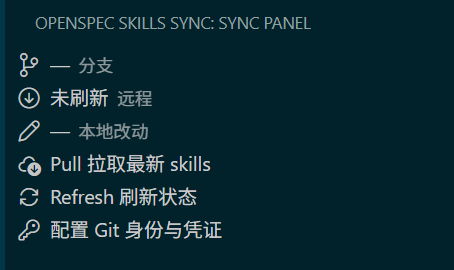
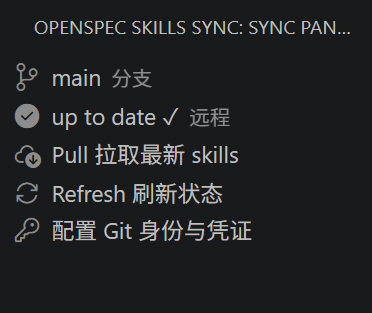
docs：更新双语 README

diff --git a/README.md b/README.md
@@ -1,20 +1,28 @@
 # OpenSpec Skills Sync
 
+<p align="right"><a href="#中文">中文</a> | <a href="#english">English</a></p>
+
 ![Dashboard](./dashboard.png)
 
-> 一个面向非开发者的 VS Code 插件，把"拉取最新 OpenSpec skills 文档"这件事简化成点一个按钮——无需任何 Git 命令知识。
+---
 
-## 一、概述
+<a id="中文"></a>
 
-在 OpenSpec 研发工作流中，团队默认使用 Lingma（通义灵码）配置 OpenSpec，规范 skills 文档存放于 `.lingma/skills/`。产品、测试、技术负责人等非开发人员经常需要查阅最新的 skills 文档，但手动 `git pull`、配置凭证、处理冲突的门槛过高。
+## 中文
 
-**OpenSpec Skills Sync** 在 VS Code 侧边栏提供一个图形化面板，让这些角色一键拉取最新文档。其核心设计原则是：
+> 一个面向非开发者的 VS Code 插件，把"拉取最新 OpenSpec skills 文档"简化成点一个按钮——无需任何 Git 命令知识。
 
-- **只读取，不写回**：MVP 阶段只做拉取，不让非开发者触碰提交/推送等复杂写操作。
-- **冲突即备份，不让用户纠结**：拉取前自动备份本地改动，再强制对齐远程，用户永远拿到干净的最新版，本地改动也不会丢失。
-- **省去命令行**：一键配置 Git 身份与凭证存储。
+### 一、概述
 
-## 二、适用人员
+团队默认使用 Lingma（通义灵码）配置 OpenSpec，规范 skills 文档存放于 `.lingma/skills/`。产品、测试、技术负责人等非开发人员需要查阅最新的 skills 文档，但手动 `git pull`、配置凭证、处理冲突门槛过高。本插件在 VS Code 侧边栏提供图形化面板，让这些角色一键拉取最新文档。
+
+设计原则：
+
+- **只读取，不写回**：MVP 只做拉取，不让非开发者触碰复杂写操作。
+- **冲突即备份**：拉取前自动备份本地改动，再强制对齐远程，用户永远拿到干净的最新版，本地改动也不丢。
+- **省去命令行**：一键配置 Git 身份与凭证。
+
+### 二、适用人员
 
 | 角色 | 典型用途 |
 |------|----------|
@@ -23,99 +31,136 @@
 | 技术负责人 | 同步规范、对照实现进行审查 |
 | 任何不熟悉 Git 的协作者 | 安全、零门槛地获取最新 skills |
 
-> 开发人员同样可用，但其价值主要面向"会用 VS Code 但不熟悉 Git"的协作者。
+### 三、典型团队流程
 
-## 三、文件结构
+本插件配合标准的「main + feature 分支 + PR」协作模型：
 
-```
-openspec-skills-sync/
-├── src/
-│   ├── extension.ts        # 主入口：注册命令、组装服务、UI 提示
-│   ├── syncProvider.ts     # 侧边栏 TreeView：状态面板 + 操作按钮
-│   ├── gitHandler.ts       # Git 操作封装（分支/状态/拉取/配置等，可注入执行器）
-│   ├── gitRunner.ts        # 真实 Git 执行器（基于 execFile）
-│   ├── syncService.ts      # 拉取流程编排（检查远程→fetch→备份→reset）
-│   ├── backup.ts           # 备份纯逻辑（日期/序号命名、文件复制，fs 可注入）
-│   ├── backupFn.ts         # 备份组装（拼出 syncService 所需的备份函数）
-│   ├── fileOps.ts          # 真实文件操作器（基于 fs/promises）
-│   ├── workspace.ts        # 仓库根解析、已有备份枚举
-│   ├── i18n.ts             # 中英文文案与语言切换
-│   └── *.test.ts           # 各模块的单元测试
-├── media/
-│   └── icon.svg            # 活动栏图标
-├── dashboard.png           # 面板截图（README 封面）
-├── package.json
-└── README.md
-```
+- **main 是唯一的同步来源**。所有人按需通过插件 **Pull**，把 `origin/main` 的最新 skills 同步到本地。Pull 只能在 main 分支进行（插件会拦截非 main 分支的拉取，避免误操作毁掉分支工作）。
+- **修改 skills 走 feature 分支 + PR**。需要改 skills 时，创建一个 feature 分支（如 `feat/update-review-spec`），在分支上修改，推送后在 GitHub/GitLab 上发起 Pull Request。
+- **合并后回到 main 拉取**。PR 合并进 main 后，协作者切回 main、点 Pull，即可获得最新 skills。
 
-## 四、已实现功能
 
-- **一键 Pull**：拉取 `.lingma/skills/` 的最新内容。本地若有未提交改动，先自动备份再强制对齐远程。
-- **自动备份**：备份目录命名为 `yyyy-MM-dd-id`（同一天多次备份序号递增，互不覆盖），仅备份有改动的文件。
-- **状态面板**：显示当前分支、与远程的同步状态（最新/落后/领先）、本地改动数量，状态图标随情况变色。
-- **一键 Refresh**：刷新状态并弹出带摘要的反馈（如"已是最新"或"远程有 N 个更新"）。
-- **配置 Git 身份与凭证**：一键设置 `user.name`、`user.email`，并启用凭证存储；已配置时显示当前身份、不重复打扰。
-- **未保存拦截**：Pull 前检测编辑器中未保存的文件，提示先保存（或一键保存并继续），避免覆盖造成混乱。
-- **网络失败保护**：拉取的网络/认证失败发生在备份之前，失败时不会留下无用的备份目录。
-- **启动自动刷新**：插件激活时自动刷新一次状态。
+### 四、已实现功能
+
+- **一键 Pull**：从 `origin/main` 同步最新 skills（`fetch` + `reset --hard origin/main`）。拉取后工作区干净、内容处于已提交状态。
+- **自动备份**：本地有改动时，拉取前仅备份有改动的文件，命名为 `yyyy-MM-dd-id`（同一天多次备份序号递增，互不覆盖），存于 `.lingma/.backup/`。
+- **同步状态判断**：通过对比工作区与 `origin/main` 的差异（`git diff`）判断"已是最新"或"有更新可拉取"，状态图标随情况变化。
+- **分支保护**：非 main 分支点 Pull 时拦截并提示，避免 `reset --hard` 毁掉 feature 分支工作。
+- **网络感知**：拉取/刷新时若无法连接远程，明确标注"无法连接远程，状态可能过时"，不静默失败。
+- **未保存拦截**：Pull 前检测编辑器未保存文件，提示先保存或一键保存并继续。
+- **进度与防重复点击**：Pull/Refresh 显示进度提示，操作进行中忽略重复点击。
+- **自动刷新**：插件启动时、面板每次变为可见时、以及每次 Pull 完成后，自动刷新状态。
+- **一键配置 Git 身份与凭证**：一键设置 `user.name`、`user.email` 并启用凭证存储；已配置时显示当前身份、不重复打扰。
 - **中英文切换**：通过设置项 `opensync.language`（`zh-CN` / `en`）切换界面语言。
 
-## 五、核心用法
+### 五、核心用法
 
-### 首次配置
+**首次配置**：点击活动栏插件图标打开面板 → 点「配置 Git 身份与凭证」→ 依次输入用户名、邮箱 → 首次拉取输入一次凭证后自动保存。
 
-1. 安装插件后，点击活动栏中的 OpenSpec Skills Sync 图标，打开侧边面板。
-2. 点击 **配置 Git 身份与凭证**，依次输入用户名、邮箱（回车确认逐项填写）。
-3. 首次拉取时输入一次凭证，之后自动保存。
+**日常拉取**（确保在 main 分支）：打开面板 → 点 **Pull** → 本地若有改动会先自动备份并提示位置 → 拉取完成后状态自动刷新。
 
-### 日常拉取
+**查看状态**：点 **Refresh**，或直接切回插件面板即自动刷新。绿色对勾＝已是最新；下载图标＝有更新可拉取；⚠️＝无法连接远程。
 
-1. 打开侧边面板，点击 **Pull**。
-2. 若本地动过 skills 文件 → 插件自动备份后强制拉取，并提示备份位置（`.lingma/.backup/<yyyy-MM-dd-id>/`）。
-3. 若本地干净 → 直接拉取最新内容。
-4. 在编辑器中查阅最新的 `.lingma/skills/` 文档。全程无需任何 Git 命令。
+**修改 skills**：切到 feature 分支修改 → 推送 → 在平台发起 PR → 合并后切回 main 点 Pull。
 
-### 查看状态
+**切换语言**：`Ctrl+,` 打开设置，搜 `opensync`，将 **Opensync: Language** 改为 `en` 或 `zh-CN`，回面板点一次 Refresh 即可。
 
-点击 **Refresh** 即可刷新分支、远程同步状态与本地改动情况。面板上：
+### 六、未来开发功能（待定）
 
-- 绿色对勾 = 已是最新
-- 下载箭头 = 远程有更新，可拉取
-- 红色错误 = 未检测到远程
+- 分支切换 / 新建分支 / 推送 feature 分支按钮（轻量开发者支持）
+- Push 后一键跳转 PR 页面
+- 同步路径配置化（当前固定 `.lingma/skills`）
+- 改设置即时生效、备份自动清理
+- 凭证方案可选（明文 / 系统凭证管理器）
 
-### 切换语言
-
-打开 VS Code 设置（`Ctrl+,`），搜索 `opensync`，将 **Opensync: Language** 改为 `en` 或 `zh-CN`，回到面板点一次 Refresh 即可切换界面语言。
-
-## 六、未来开发功能（待定）
-
-以下为后续可能扩展的方向，尚未排期：
-
-- **提交与推送（Commit / Push）**：让非开发者把评审意见写回远程。
-- **完整 OpenSpec 同步**：从仅同步 `skills/` 扩展到 `changes/`、`specs/` 等目录。
-- **同步路径可配置**：当前固定为 `.lingma/skills`，未来开放为配置项。
-- **改设置即时生效**：监听语言配置变更，无需手动 Refresh。
-- **备份自动清理**：定期清理过期备份目录。
-- **`.gitignore` 辅助**：自动检测并加入 `.backup/` 忽略项（视团队推送策略而定）。
-- **凭证方案可选**：在明文存储与系统凭证管理器之间提供选择。
-- **国际化升级**：迁移到官方 `@vscode/l10n` API。
-
-> 关于备份目录与推送策略：备份是本地产物。若团队仅推送 `skills/` 目录，备份不会进入仓库；具体忽略策略由团队约定。
-
-## 七、开发与调试
+### 七、开发与调试
 
 ```bash
-
-cd openspec-skills-sync/
-
-# 安装依赖
-npm install
-
-# 运行测试
-npm test
-
-# 编译
-npm run compile
-
-# 调试：在 VS Code 中打开 openspec-skills-sync Folder，按 F5 或者 Ctrl + Shift + D 启动扩展开发宿主窗口
+cd .\openspec-skills-sync\
+npm install        # 安装依赖
+npm test           # 运行测试
+npm run compile    # 编译
 ```
+
+调试：用 VS Code 打开本项目（`openspec-skills-sync`）→「运行和调试」面板选 **Run Extension** → 启动扩展宿主窗口 → 在其中打开一个含 `.lingma/skills/` 的 Git 仓库测试。调试配置见 `.vscode/launch.json`。
+
+---
+
+<a id="english"></a>
+
+## English
+
+> A VS Code extension for non-developers that turns "pull the latest OpenSpec skills docs" into a single button click — no Git knowledge required.
+
+### 1. Overview
+
+The team uses Lingma to configure OpenSpec, with skills docs stored under `.lingma/skills/`. Non-developers (PMs, QA, tech leads) need the latest skills docs, but manual `git pull`, credential setup, and conflict resolution are too high a barrier. This extension provides a sidebar panel to pull the latest docs with one click.
+
+Design principles:
+
+- **Read-only**: MVP only pulls; no complex write operations for non-developers.
+- **Backup over conflicts**: local changes are backed up before a forced sync, so users always get a clean latest version without losing their work.
+- **No command line**: one-click Git identity and credential setup.
+
+### 2. Who It's For
+
+| Role | Typical use |
+|------|-------------|
+| Product Manager | Pull latest spec docs for requirement review |
+| QA | Check latest skills conventions and acceptance criteria |
+| Tech Lead | Sync specs, review against implementation |
+| Any non-Git collaborator | Get latest skills safely, zero barrier |
+
+### 3. Typical Team Workflow
+
+The extension fits the standard "main + feature branch + PR" model:
+
+- **main is the single sync source.** Everyone uses **Pull** to sync the latest skills from `origin/main`. Pull is only allowed on main (the extension blocks pulls on non-main branches to avoid wiping branch work).
+- **Edit skills via feature branch + PR.** To change skills, create a feature branch (e.g. `feat/update-review-spec`), edit there, push, and open a Pull Request on GitHub/GitLab.
+- **Protect main.** Enable branch protection on main in your repo settings to forbid direct pushes — all changes go through PR review. This server-side guard is more reliable than the extension's check.
+- **Pull from main after merge.** Once a PR is merged into main, collaborators switch back to main and click Pull to get the latest skills.
+
+
+### 4. Implemented Features
+
+- **One-click Pull**: sync latest skills from `origin/main` (`fetch` + `reset --hard origin/main`). The working tree stays clean after pulling.
+- **Auto backup**: when local changes exist, only changed files are backed up before pulling, named `yyyy-MM-dd-id` (auto-incrementing per day), stored under `.lingma/.backup/`.
+- **Sync status**: determined by diffing the working tree against `origin/main` — shows "up to date" or "update available", with status-aware icons.
+- **Branch protection**: pulling on a non-main branch is blocked with a prompt, preventing `reset --hard` from destroying feature branch work.
+- **Network awareness**: if the remote is unreachable during pull/refresh, it clearly flags "remote unreachable, status may be outdated" instead of failing silently.
+- **Unsaved-file guard**: detects unsaved editor files before Pull, prompting to save first or save-and-continue.
+- **Progress & debounce**: Pull/Refresh show progress; repeated clicks during an operation are ignored.
+- **Auto refresh**: on startup, whenever the panel becomes visible, and after each Pull.
+- **One-click Git identity & credential setup**: sets `user.name`, `user.email`, and enables credential storage; shows current identity if already configured.
+- **Language switch**: toggle UI language via `opensync.language` (`zh-CN` / `en`).
+
+### 5. Core Usage
+
+**First-time setup**: open the panel from the activity bar → click "Configure Git Identity & Credential" → enter user name and email → enter credential once on first pull, saved thereafter.
+
+**Daily pull** (on main): open the panel → click **Pull** → local changes are auto-backed-up first if any → status auto-refreshes when done.
+
+**Check status**: click **Refresh**, or just switch back to the panel for an auto-refresh. Green check = up to date; download icon = update available; ⚠️ = remote unreachable.
+
+**Edit skills**: switch to a feature branch, edit, push, open a PR on your platform, and after merge switch back to main and Pull.
+
+**Switch language**: `Ctrl+,` → search `opensync` → set **Opensync: Language** to `en` or `zh-CN` → click Refresh once.
+
+### 6. Future Features (TBD)
+
+- Branch switch / create / push feature branch buttons (lightweight developer support)
+- One-click jump to PR page after push
+- Configurable sync path (currently fixed `.lingma/skills`)
+- Instant-apply settings, auto backup cleanup
+- Selectable credential strategy (plaintext / system credential manager)
+
+### 7. Development
+
+```bash
+cd .\openspec-skills-sync\
+npm install        # install dependencies
+npm test           # run tests
+npm run compile    # compile
+```
+
+Debug: open this project (`openspec-skills-sync`) in VS Code → Run and Debug panel → select **Run Extension** → in the host window, open a Git repo containing `.lingma/skills/`. See `.vscode/launch.json`.